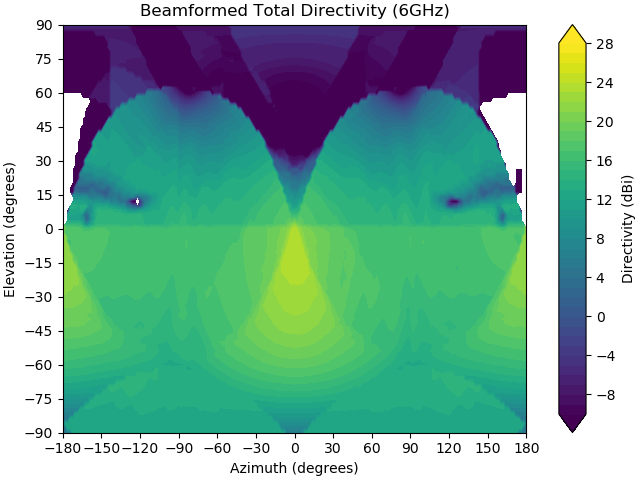
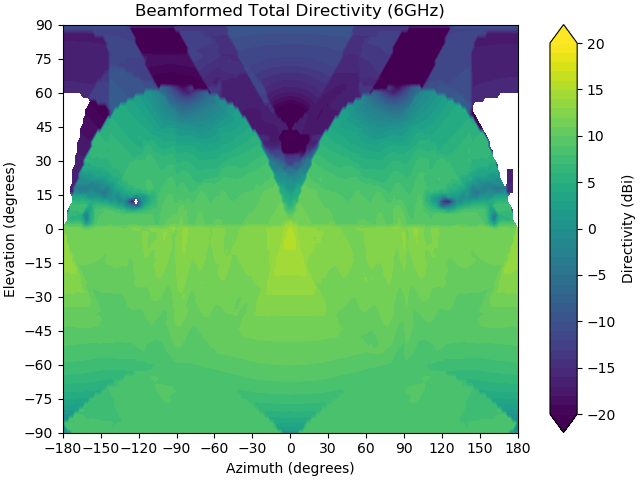
Updated Beamforming Page
Updated Beamforming Page

diff --git a/_posts/2020-09-18-Beamforming-and-Conformal-Antenna-Arrays.md b/_posts/2020-09-18-Beamforming-and-Conformal-Antenna-Arrays.md
@@ -18,16 +18,16 @@ The beamforming algorithm used here is &quot;Equal Gain Combining&quot;. I prefe
 
 ![Beamformed Total Directivity Map](/images/UAVBeamformedTotalDirectivityMap.png "Contour plot of beamformed total achievable directivity")
 
-The maximum achieved directivity in across all polled command angles is 23.8dBi, this is interesting as the eagle eyed reader will note that the scale goes higher. This is because the maximum directivity will not always be in the desired direction. This is easy to imagine when the desired direction is blocked by some object, such as the fuselage in this figure.
+The maximum achieved directivity across all polled command angles is 16dBi, this is interesting as the eagle eyed reader will note that the shared scale for the directivity map and beamformed cloud pattern plots has a larger upper limit. This is because the maximum directivity will not always be in the desired direction. This is easy to imagine when the desired direction is blocked by some object, such as the fuselage in this figure.
 
-![Beamforming to the aft](/images/UAVBeamformedAzm180El0Dm25p6.png "Point cloud log plot of the total directivity pattern when beamformed to Azimuth -180 degrees, and Elevation 0 degrees")
+![Beamforming to the aft](/images/UAVBeamformedAzm180El0.png "Point cloud log plot of the total directivity pattern when beamformed to Azimuth -180 degrees, and Elevation 0 degrees")
 
 It is somewhat harder to see when the beam is formed towards Azimuth of 0 degrees, and Elevation of 0 degrees. But if the reader looks along the x axis (red arrow), then it becomes easier to see that the pattern maxima is not quite aligned with this direction.
 
-![Beamforming along the direction of flight](/images/UAVBeamformedAz0El0Dm25p7.png "Point cloud log plot of the total directivity pattern when beamformed to Azimuth 0 degrees, and Elevation 0 degrees")
+![Beamforming along the direction of flight](/images/UAVBeamformedAz0El0.png "Point cloud log plot of the total directivity pattern when beamformed to Azimuth 0 degrees, and Elevation 0 degrees")
 
 One of the major consequences of array polarization is it's influence on the array steerability. Because Z axis aligned current sources were chosen for this example, they steer well in the azimuth direction, but increasing elevation angles away from the array normal vector cause the achievable directivity to drop quickly. As can be seen by steering the beam to first Elevation of -30 degrees, in the first figure, and -60 degrees in the second.
 
-![Beamforming along the direction of flight](/images/UAVBeamformedAz0Elm30Dm25p7.png "Point cloud log plot of the total directivity pattern when beamformed to Azimuth 0 degrees, and Elevation -30 degrees")
+![Beamforming along the direction of flight](/images/UAVBeamformedAz0Elm30.png "Point cloud log plot of the total directivity pattern when beamformed to Azimuth 0 degrees, and Elevation -30 degrees")
 
-![Beamforming along the direction of flight](/images/UAVBeamformedAz0Elm60Dm21p6.png "Point cloud log plot of the total directivity pattern when beamformed to Azimuth 0 degrees, and Elevation -60 degrees")
+![Beamforming along the direction of flight](/images/UAVBeamformedAz0Elm60.png "Point cloud log plot of the total directivity pattern when beamformed to Azimuth 0 degrees, and Elevation -60 degrees")
